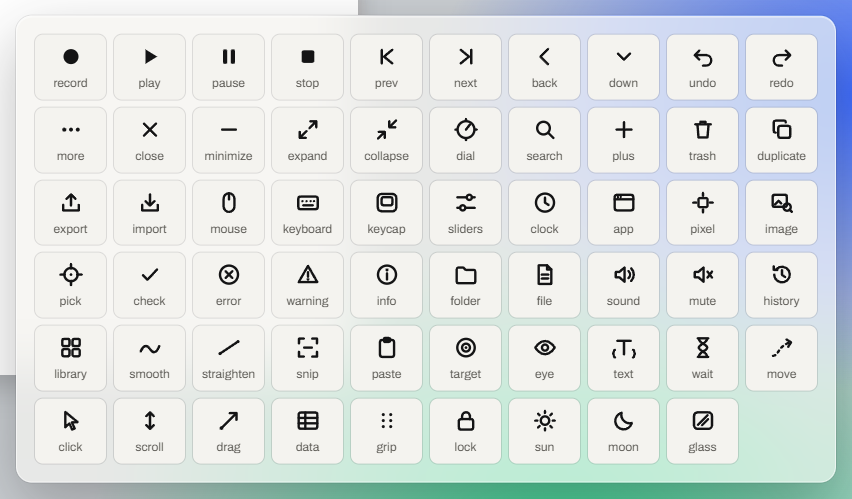
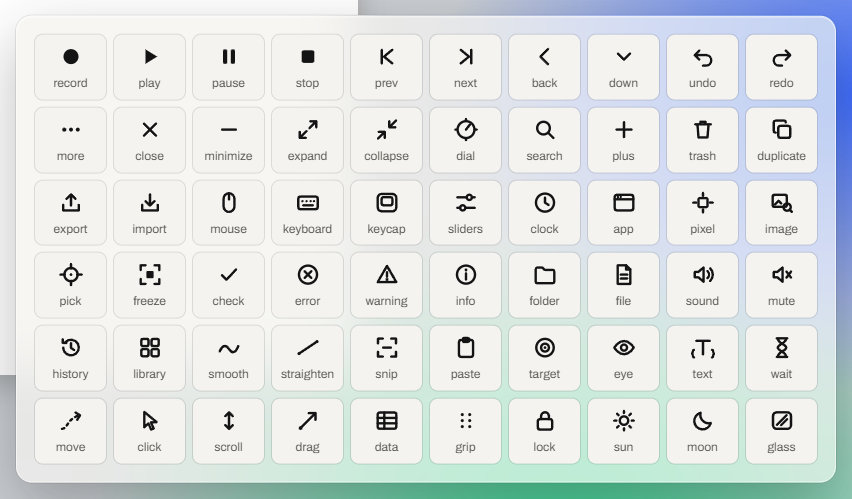
docs(design): the picker on the live screen, with Freeze
The maintainer chose a live picker with an option to freeze. Space
freezes and unfreezes; the help bar's screen says LIVE or FROZEN with
the time, and corner marks frame a frozen screen without tinting it.
The help bar drops to the bottom when the loupe comes near it. The
audit (65/65) and the task flows (16/16) cover both states.

diff --git a/Design/redesign/app.js b/Design/redesign/app.js
@@ -953,8 +953,13 @@ function exportDialog() {
 
 function pickerHtml() {
   if (!st.picking) return "";
-  return `<div class="picker" data-act="pick-confirm" role="dialog" aria-label="Pick a pixel from the screen">
-    <div class="help glass">${icon("pick", 14)}<span>Click the pixel, or move with the arrow keys and press Enter. Esc cancels.</span></div>
+  const f = st.picking.frozen;
+  return `<div class="picker${f ? " frozen" : ""}${helpLow() ? " help-low" : ""}" data-act="pick-confirm" role="dialog" aria-label="Pick a pixel from the screen">
+    ${f ? `<div class="frame" aria-hidden="true"><i></i><i></i><i></i><i></i></div>` : ""}
+    <div class="help glass" data-act="none">${icon("pick", 14)}<span>Click the pixel, or move with the arrow keys and press Enter. Esc cancels.</span>
+      <span class="lcd pick-state">${f ? `FROZEN <span class="of">${f.time}</span>` : `<i class="live-dot"></i>LIVE`}</span>
+      <button class="key small${f ? " ink" : ""}" type="button" aria-pressed="${!!f}" data-act="pick-freeze" data-fid="pick-freeze" title="Freeze the screen (Space)">${icon("freeze", 14)}Freeze<kbd>Space</kbd></button>
+    </div>
     <div class="loupe" id="loupe" style="left:${st.picking.x}px;top:${st.picking.y + 40}px"><canvas id="loupe-c" width="11" height="11"></canvas></div>
     <div class="loupe-tag" id="loupe-tag" style="left:${st.picking.x}px;top:${st.picking.y + 40}px">${st.picking.x}, ${st.picking.y} · ${colorHex(st.picking.x, st.picking.y)}</div>
   </div>`;
@@ -975,6 +980,7 @@ function render() {
   root.classList.toggle("large", st.spacing === "large");
   root.classList.toggle("narrow", narrow());
   root.classList.toggle("picking", !!st.picking);
+  root.classList.toggle("frozen-screen", !!st.picking?.frozen);
   const [ww, wh] = winPx();
   root.style.setProperty("--win-w", `${ww}px`);
   root.style.setProperty("--win-h", `${wh}px`);
@@ -991,7 +997,7 @@ function render() {
   document.getElementById("app").innerHTML = `
     ${st.frame ? "" : envBar()}
     <div class="desktop">
-      <div class="app-behind" aria-hidden="true"><div class="bar">Invoices.xlsx</div><span class="cell" style="left:12px;top:40px">ACME Ltd</span><span class="cell" style="left:140px;top:40px">F-1042</span><span class="cell" style="left:12px;top:62px">Globex</span><span class="cell" style="left:140px;top:62px">F-1043</span></div>
+      <div class="app-behind" aria-hidden="true"><div class="bar">Invoices.xlsx<span class="sync${syncOn ? " on" : ""}">Syncing</span></div><span class="cell" style="left:12px;top:40px">ACME Ltd</span><span class="cell" style="left:140px;top:40px">F-1042</span><span class="cell" style="left:12px;top:62px">Globex</span><span class="cell" style="left:140px;top:62px">F-1043</span></div>
       ${win && st.frame !== "icons" ? `<div class="win-pos">${win}</div>` : win}
       ${st.frame === "icons" ? "" : `<div class="player-pos${st.trigger && !windowAway() ? ` corner ${playerCorner()}` : ""}">${playerHtml()}</div>`}
       ${exportedHtml()}
@@ -1020,6 +1026,12 @@ function colorHex(x, y) {
 function colorAt(x, y) {
   const app = document.querySelector(".app-behind")?.getBoundingClientRect();
   const Y = y + 40;
+  const sync = document.querySelector(".app-behind .sync");
+  const sr = sync?.getBoundingClientRect();
+  if (sr && x >= sr.left && x <= sr.right && Y >= sr.top && Y <= sr.bottom) {
+    const c = st.picking?.frozen?.sync ?? getComputedStyle(sync).backgroundColor;
+    return c.match(/\d+/g).slice(0, 3).map(Number);
+  }
   if (app && x >= app.left && x <= app.right && Y >= app.top && Y <= app.bottom) {
     if (Y - app.top < 30) return [31, 122, 69];
     const gx = (x - app.left) % 64 < 1, gy = (Y - app.top - 30) % 22 < 1;
@@ -1036,17 +1048,34 @@ function drawLoupe() {
   const ctx = c.getContext("2d");
   for (let i = -5; i <= 5; i++) for (let j = -5; j <= 5; j++) { const [r, g, b] = colorAt(st.picking.x + i, st.picking.y + j); ctx.fillStyle = `rgb(${r},${g},${b})`; ctx.fillRect(i + 5, j + 5, 1, 1); }
 }
+// The help bar drops to the bottom when the loupe comes near it.
+const helpLow = () => st.picking.y < 150;
 function movePicker(x, y) {
   st.picking.x = Math.round(x); st.picking.y = Math.round(y);
+  document.querySelector(".picker")?.classList.toggle("help-low", helpLow());
   const l = document.getElementById("loupe"), t = document.getElementById("loupe-tag");
   if (l) { l.style.left = `${st.picking.x}px`; l.style.top = `${st.picking.y + 40}px`; t.style.left = l.style.left; t.style.top = l.style.top; t.textContent = `${st.picking.x}, ${st.picking.y} · ${colorHex(st.picking.x, st.picking.y)}`; drawLoupe(); }
 }
+function toggleFreeze() {
+  if (st.picking.frozen) { st.picking.frozen = null; announce("Live screen."); }
+  else {
+    const sync = document.querySelector(".app-behind .sync");
+    st.picking.frozen = { time: new Date().toTimeString().slice(0, 8), sync: sync ? getComputedStyle(sync).backgroundColor : null };
+    announce("Screen frozen. Space goes back to the live screen.");
+  }
+  render();
+}
+// The app behind blinks a badge, so the picker has something live to freeze.
+var syncOn = true;
+setInterval(() => { if (st.picking?.frozen) return; syncOn = !syncOn; document.querySelector(".app-behind .sync")?.classList.toggle("on", syncOn); }, 600);
+setInterval(() => { if (st.picking && !st.picking.frozen) movePicker(st.picking.x, st.picking.y); }, 100);
 function confirmPick() {
   const m = macro(), x = m.steps.find((s) => s.id === st.picking.stepId);
   const col = colorHex(st.picking.x, st.picking.y);
+  const frozen = !!st.picking.frozen;
   if (x) { snapshot(); x.x = Math.round(st.picking.x * 1920 / innerWidth); x.y = Math.round(st.picking.y * 1080 / innerHeight); if (x.kind === "pixel") x.color = col; }
   st.picking = null;
-  toast(`Picked ${x?.x}, ${x?.y}${x?.kind === "pixel" ? ` · ${col}` : ""}`, { action: { label: "Undo", run: () => restore(st.undo, st.redo) } });
+  toast(`Picked ${x?.x}, ${x?.y}${x?.kind === "pixel" ? ` · ${col}` : ""}${frozen ? " from the frozen screen" : ""}`, { action: { label: "Undo", run: () => restore(st.undo, st.redo) } });
   render();
 }
 
@@ -1337,6 +1366,8 @@ document.addEventListener("click", (e) => {
     case "make-editable": { snapshot(); let n = 0; m.steps.forEach((x) => { if (st.sel.has(x.id) && x.kind === "type") { x.kind = "text"; n++; } }); toast(`Made ${plural(n, "text")} editable`, { action: { label: "Undo", run: () => restore(st.undo, st.redo) } }); return doRender(); }
     case "smooth": case "straighten": snapshot(); toast(a === "smooth" ? "Smoothed the path" : "Straightened the path", { action: { label: "Undo", run: () => restore(st.undo, st.redo) } }); return doRender();
     case "pick": case "pick-trigger": st.picking = { stepId: [...st.sel][0], x: Math.round(innerWidth * 0.3), y: Math.round(innerHeight * 0.35) }; announce("Picking a pixel. Move with the arrow keys and press Enter, or click. Escape cancels."); return doRender();
+    case "pick-freeze": return toggleFreeze();
+    case "none": return;
     case "pick-confirm": movePicker(e.clientX, e.clientY - 40); return confirmPick();
     case "clickpoint": { const r = t.getBoundingClientRect(); const x = m.steps.find((s) => st.sel.has(s.id)); if (x && e.detail) { snapshot(); x.cx = (e.clientX - r.left) / r.width; x.cy = (e.clientY - r.top) / r.height; } return doRender(); }
     case "test": st.testResult = "Found at 812, 440 · 97% match, well above 85%"; announce(st.testResult); return doRender();
@@ -1420,7 +1451,7 @@ document.addEventListener("pointerdown", (e) => {
   el.setPointerCapture(e.pointerId);
 });
 document.addEventListener("pointermove", (e) => {
-  if (st.picking && e.target.closest(".picker")) return movePicker(e.clientX, e.clientY - 40);
+  if (st.picking && e.target.closest(".picker") && !e.target.closest(".help")) return movePicker(e.clientX, e.clientY - 40);
   if (!scrub) return;
   const dx = e.clientX - scrub.x; if (Math.abs(dx) < 3 && !scrub.moved) return;
   if (!scrub.moved) { scrub.moved = true; snapshot(); scrub.el.classList.add("dragging"); }
@@ -1448,7 +1479,8 @@ document.addEventListener("keydown", (e) => {
     const d = e.shiftKey ? 10 : 1;
     const mv = { ArrowLeft: [-d, 0], ArrowRight: [d, 0], ArrowUp: [0, -d], ArrowDown: [0, d] }[e.key];
     if (mv) { e.preventDefault(); return movePicker(st.picking.x + mv[0], st.picking.y + mv[1]); }
-    if (e.key === "Enter") { e.preventDefault(); return confirmPick(); }
+    if (e.key === "Enter" && !e.target.closest?.(".help")) { e.preventDefault(); return confirmPick(); }
+    if (e.key === " ") { e.preventDefault(); return toggleFreeze(); }
     if (e.key === "Escape") { st.picking = null; announce("Cancelled."); render(); document.querySelector('[data-fid="pick"]')?.focus(); return; }
     return;
   }

diff --git a/Design/redesign/relay.css b/Design/redesign/relay.css
@@ -616,6 +616,20 @@ table.macros tr.sel td { background: var(--plate-2); }
 .loupe { position: absolute; width: 132px; height: 132px; margin: -66px 0 0 -66px; border-radius: 50%; overflow: hidden; pointer-events: none; box-shadow: 0 0 0 2px var(--ink), 0 0 0 4px rgba(255, 255, 255, 0.9), 0 10px 30px rgba(0, 0, 0, 0.35); }
 .loupe canvas { display: block; width: 132px; height: 132px; image-rendering: pixelated; }
 .loupe::after { content: ""; position: absolute; left: 60px; top: 60px; width: 12px; height: 12px; box-shadow: 0 0 0 1.5px #fff, 0 0 0 3px #141415; }
+.picker .help { cursor: default; white-space: nowrap; }
+.picker.help-low .help { top: auto; bottom: 54px; }
+.picker .help .key kbd { margin-left: 6px; font: inherit; font-size: 12px; font-weight: 600; opacity: 0.7; }
+.pick-state { height: 24px; font-size: 12px; gap: 6px; }
+.live-dot { width: 7px; height: 7px; border-radius: 50%; background: var(--red); animation: breathe-dot 1.6s ease-in-out infinite; }
+.calm .live-dot { animation: none; }
+.picker .frame { position: absolute; inset: 8px; pointer-events: none; }
+.picker .frame i { position: absolute; width: 28px; height: 28px; border: 0 solid var(--ink); filter: drop-shadow(0 0 1px #fff) drop-shadow(0 0 1px #fff); }
+.picker .frame i:nth-child(1) { left: 0; top: 0; border-width: 3px 0 0 3px; }
+.picker .frame i:nth-child(2) { right: 0; top: 0; border-width: 3px 3px 0 0; }
+.picker .frame i:nth-child(3) { right: 0; bottom: 40px; border-width: 0 3px 3px 0; }
+.picker .frame i:nth-child(4) { left: 0; bottom: 40px; border-width: 0 0 3px 3px; }
+.app-behind .sync { position: absolute; right: 10px; top: 6px; padding: 2px 8px; border-radius: 4px; font-size: 12px; font-weight: 600; color: #141415; background: #fff; }
+.app-behind .sync.on { background: #ffc21a; }
 .loupe-tag { position: absolute; margin: 74px 0 0 -66px; width: 132px; text-align: center; font-size: 12px; font-weight: 700; padding: 3px 0; border-radius: var(--r-sm); background: var(--lcd); color: var(--paper); pointer-events: none; font-variant-numeric: tabular-nums; }
 
 /* ── Gallery frames ─────────────────────────────────────────────────────── */

diff --git a/Design/redesign/icons.js b/Design/redesign/icons.js
@@ -35,6 +35,7 @@ const ICONS = {
   pixel: `<rect x="5" y="5" width="6" height="6" rx="1" ${S}/><path d="M8 1.5v2M8 12.5v2M1.5 8h2M12.5 8h2" ${S}/>`,
   image: `<rect x="1.8" y="2.8" width="9.4" height="8" rx="1.2" ${S}/><path d="m3.3 9.2 2.4-2.4 1.8 1.8" ${S}/><circle cx="11.4" cy="11" r="2.4" ${S}/><path d="m13.1 12.7 1.4 1.4" ${S}/>`,
   pick: `<circle cx="8" cy="8" r="4.4" ${S}/><path d="M8 .9v3M8 12.1v3M.9 8h3M12.1 8h3" ${S}/><circle cx="8" cy="8" r=".9" ${F}/>`,
+  freeze: `<path d="M1.8 5V1.8H5M11 1.8h3.2V5M14.2 11v3.2H11M5 14.2H1.8V11" ${S}/><rect x="5.6" y="5.6" width="4.8" height="4.8" rx=".8" ${F}/>`,
   check: `<path d="m3.3 8.4 3 3 6.4-6.8" ${S}/>`,
   error: `<circle cx="8" cy="8" r="6" ${S}/><path d="m5.8 5.8 4.4 4.4M10.2 5.8l-4.4 4.4" ${S}/>`,
   warning: `<path d="M8 2.2 14.2 13H1.8z" ${S}/><path d="M8 6.4v3" ${S}/><circle cx="8" cy="11.2" r=".9" ${F}/>`,

diff --git a/docs/design/visual-redesign.md b/docs/design/visual-redesign.md
@@ -177,7 +177,7 @@ Three spacings on one scale (*Settings → Appearance → Spacing*):
 
 ## Icons
 
-Relay draws its own icons: 59 of them, on one 16 px grid, with 1.6 px strokes and round ends. Only the transport (record, play, pause, stop) is filled. The set is in [`Design/redesign/icons.js`](../../Design/redesign/icons.js).
+Relay draws its own icons: 60 of them, on one 16 px grid, with 1.6 px strokes and round ends. Only the transport (record, play, pause, stop) is filled. The set is in [`Design/redesign/icons.js`](../../Design/redesign/icons.js).
 
 <p align="center"><img src="images/proto-icons.png" alt="Relay's icon set: transport, navigation, editing, step kinds, triggers, files and states" width="820"></p>
 
@@ -227,9 +227,13 @@ Relay draws its own icons: 59 of them, on one 16 px grid, with 1.6 px strokes an
 
 <p align="center"><img src="images/proto-triggered.png" alt="A scheduled run of Fill weekly timesheet while Export invoice to PDF is open: the player at the top right, a notice with Stop in the window" width="820"></p>
 
-**Picking from the screen:** Relay steps aside, the loupe shows the pixel and its color, and the arrow keys nudge it:
+**Picking from the screen:** Relay steps aside, the loupe shows the pixel and its color on the live screen, and the arrow keys nudge it:
 
 <p align="center"><img src="images/proto-picker.png" alt="The picker's loupe over a spreadsheet's title bar: 330, 62, #1F7A45" width="820"></p>
+
+**Freezing it:** the help bar has a small screen saying **LIVE**, with a breathing red dot, and a **Freeze** key with its <kbd>Space</kbd> legend. Freezing lights the key (ink, pressed), the screen says **FROZEN** and the time it was taken, and drafting corner marks frame the screen, like a print of it. Nothing is tinted or dimmed, so the colors stay the ones picked. Picking from it says so: *Picked 566, 66 · #FFC21A from the frozen screen*.
+
+<p align="center"><img src="images/proto-picker-frozen.png" alt="The picker frozen: FROZEN 14:54:01 and the pressed Freeze key in the help bar, corner marks at the screen's corners, the loupe on a yellow Syncing badge" width="820"></p>
 
 ## Motion and juice
 
@@ -309,7 +313,7 @@ The prototype was put through the panel again, this time by doing their tasks in
 
 ### What was tested
 
-- **Every screen and state:** 64 in all, across the first run, the Library, Problems, the editor, the Macro tab, every step type, menus, the export dialog, every Settings section, key capture with its warnings, and the player in each state, and a triggered run while the window is open. They were also run in dark, solid, Windows 10, no transparency, every spacing, 150% and 200% text, the minimum and a large window, the picker, the exported program and the icon sheet.
+- **Every screen and state:** 65 in all, across the first run, the Library, Problems, the editor, the Macro tab, every step type, menus, the export dialog, every Settings section, key capture with its warnings, and the player in each state, and a triggered run while the window is open. They were also run in dark, solid, Windows 10, no transparency, every spacing, 150% and 200% text, the minimum and a large window, the picker live and frozen, the exported program and the icon sheet.
 - **On each one, an audit in the page:**
   - the contrast of every text against its real background, glass composited over a black and a white wallpaper;
   - text under 12 px;
@@ -332,7 +336,7 @@ The prototype was put through the panel again, this time by doing their tasks in
 | Kenji (P3) | Set the play key to None | 2 |
 | Dee (P4) | Solid on Windows 10; glass disabled without transparency; the kill switch's Remote Desktop warning | 3 |
 | Ruth (P5) | 150% text (two columns, nothing under 18 px), the large player | 0 |
-| Sam (P6) | Pick a pixel by keyboard only | 6 |
+| Sam (P6) | Pick a pixel by keyboard only, freezing the screen first | 7 |
 | Sam (P6) | Delete, undo and insert by keyboard | 3 |
 | Priya (P7) | Names and roles, menu focus, record and cancel announced | 4 |
 | Mateo (P8) | Edit in the minimum window | 2 |
@@ -349,9 +353,10 @@ The prototype was put through the panel again, this time by doing their tasks in
 | 2 | 50 / 60 | 24 | 0 | 2 | 0 | 103 | 11 / 15 |
 | 3 | 54 / 62 | 0 | 0 | 17 | 0 | 19 | 14 / 15 |
 | 4 | 62 / 62 | 0 | 0 | 0 | 0 | 0 | 15 / 15 |
-| Final, with triggered runs | **64 / 64** | **0** | **0** | **0** | **0** | **0** | **16 / 16** |
+| With triggered runs | 64 / 64 | 0 | 0 | 0 | 0 | 0 | 16 / 16 |
+| Final, with the picker's Freeze | **65 / 65** | **0** | **0** | **0** | **0** | **0** | **16 / 16** |
 
-Counts are issues across all states (one bad control on 10 screens counts 10). The final round added the two triggered-run states and Hannah's second task after the maintainer's decision on triggered runs. Rounds 2 and 3 also included false alarms from the audit itself, which then learned to read `color-mix()` backgrounds and to skip rows scrolled out of view; the final round uses the corrected audit throughout.
+Counts are issues across all states (one bad control on 10 screens counts 10). The triggered-run round added two states and Hannah's second task after the maintainer's decision on triggered runs; the final round added the frozen picker, and Sam's picking task now freezes the screen before picking. Rounds 2 and 3 also included false alarms from the audit itself, which then learned to read `color-mix()` backgrounds and to skip rows scrolled out of view; the final round uses the corrected audit throughout.
 
 ### What the rounds found, and what changed
 
@@ -380,6 +385,7 @@ Counts are issues across all states (one bad control on 10 screens counts 10). T
 | 21 | During playback the inspector said *No step selected* | Screenshots | Priya (P7), Aisha (P1) | It shows the step playing now, and the data row |
 | 22 | Undo brought steps back but not the selection | The keyboard test | Viktor (P9), Sam (P6) | Undo restores the selection too |
 | 23 | The picker sampled Relay's own window | Screenshots | Everyone | Relay steps aside while picking |
+| 24 | Near the top of the screen, the loupe covered the picker's help bar | Screenshots | Ruth (P5), everyone | The help bar drops to the bottom while the loupe is near it |
 | 24 | The exported program's name was cut to "E…" | Screenshots | Dee (P4) | Name on the top line, progress and time below |
 | 25 | Secondary text in dark fell to 4.4:1 on yellow rows | The audit | Ruth (P5) | Dark secondary text `#B3B1AB` |
 | 26 | Green *✓ Yesterday* fell to 4.3:1 on a hovered row | The audit | Ruth (P5) | Green text `#0E6B3D` |
@@ -443,6 +449,14 @@ The three questions the prototype round left, decided by the maintainer on 2026-
 | Archivo's width axis | Switch to the variable package, `@fontsource-variable/archivo`, and check its width axis when it's installed |
 | Where the prototype lives | In `Design/redesign/` until `m24-redesign` merges; the milestone's last commit removes it |
 | A trigger firing while the window is open | The player in a free corner (clear of the window and the macro's clicks), and a notice with **Stop** in the window; tested in the final round |
+
+And three for building it, at the start of `m24-redesign`:
+
+| Question | Decision |
+| --- | --- |
+| The player | Its own small window, on top, separate from the main window |
+| Edits on several steps | One `EditOp` in `relay-core` for a batch, undone in one step |
+| The picker | The live screen, with a **Freeze** key (<kbd>Space</kbd>) for what moves or only shows on hover |
 
 Nothing is left open from the panel's rounds. What's left to learn needs Windows itself and real people (see [What the prototype can't tell](#what-the-prototype-cant-tell)).
 

diff --git a/docs/design/ux-research-panel.md b/docs/design/ux-research-panel.md
@@ -1337,9 +1337,12 @@ The timeline is a slider for assistive technology (*Playhead, 00:06.02 of 00:10.
 
 One picker for a pixel check, the pixel trigger, and the click point of a Find image step:
 
-1. **Pick from screen** freezes the screen and shows a loupe around the cursor: magnified pixels, the color, the coordinates.
+1. **Pick from screen** shows a loupe around the cursor over the live screen: magnified pixels, the color, the coordinates.
 2. Move with the mouse, a pen, a finger, or the arrow keys (one pixel, ten with <kbd>Shift</kbd>).
-3. Click, tap or <kbd>Enter</kbd> picks. <kbd>Esc</kbd> cancels. No countdown.
+3. **Freeze** (<kbd>Space</kbd>) holds the screen as it is, for something that blinks, animates or only shows on hover. <kbd>Space</kbd> again goes back to the live screen.
+4. Click, tap or <kbd>Enter</kbd> picks. <kbd>Esc</kbd> cancels. No countdown.
+
+The picker doesn't take the focus from the app under it, so a menu or a tooltip that's open stays open while you freeze it.
 
 Snipping an image (+ Find image, the image trigger) keeps Windows' snipping overlay, with **Paste** and **File…** in the inspector.
 
